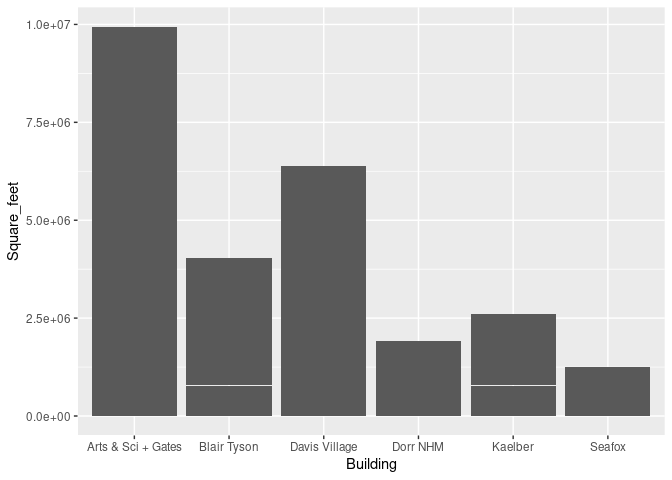
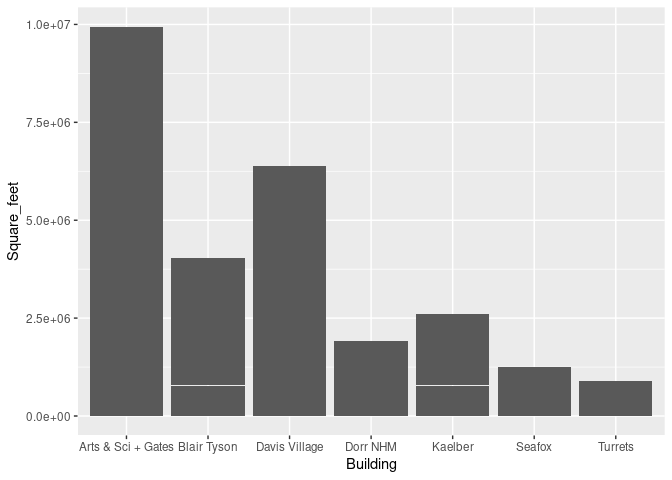
Fix data cleaning step 11

diff --git a/memo/memo.md b/memo/memo.md
@@ -157,16 +157,13 @@ fuels <- fuels |>
 
 ``` r
 fuels <- fuels |>
+  mutate(Square_feet = case_when(
+    Building == "Turrets" ~ "8400",
+    Building == "Turrets Annex" ~ "4200",
+    TRUE ~ Square_feet
+  )) |>
   mutate(Square_feet = as.numeric(Square_feet))
 ```
-
-    ## Warning: There were 11 warnings in `mutate()`.
-    ## The first warning was:
-    ## ℹ In argument: `Square_feet = as.numeric(Square_feet)`.
-    ## ℹ In group 1: `Year = 2014`.
-    ## Caused by warning:
-    ## ! NAs introduced by coercion
-    ## ℹ Run `dplyr::last_dplyr_warnings()` to see the 10 remaining warnings.
 
 ### Step 12: Add total gallons per square foot
 
